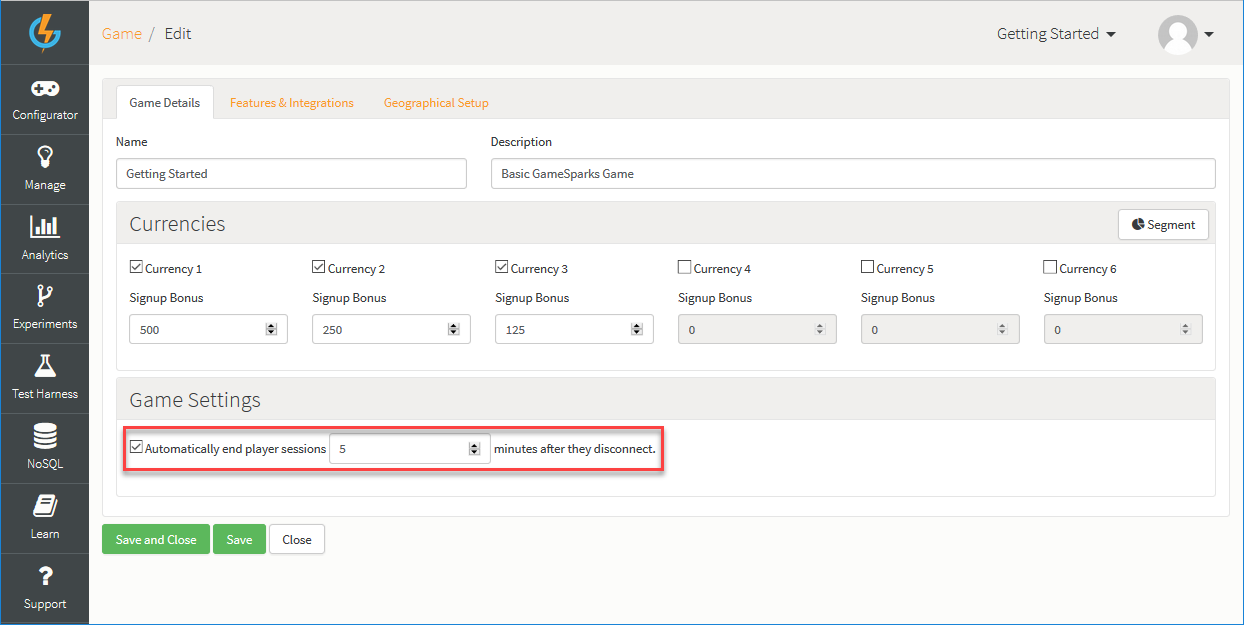
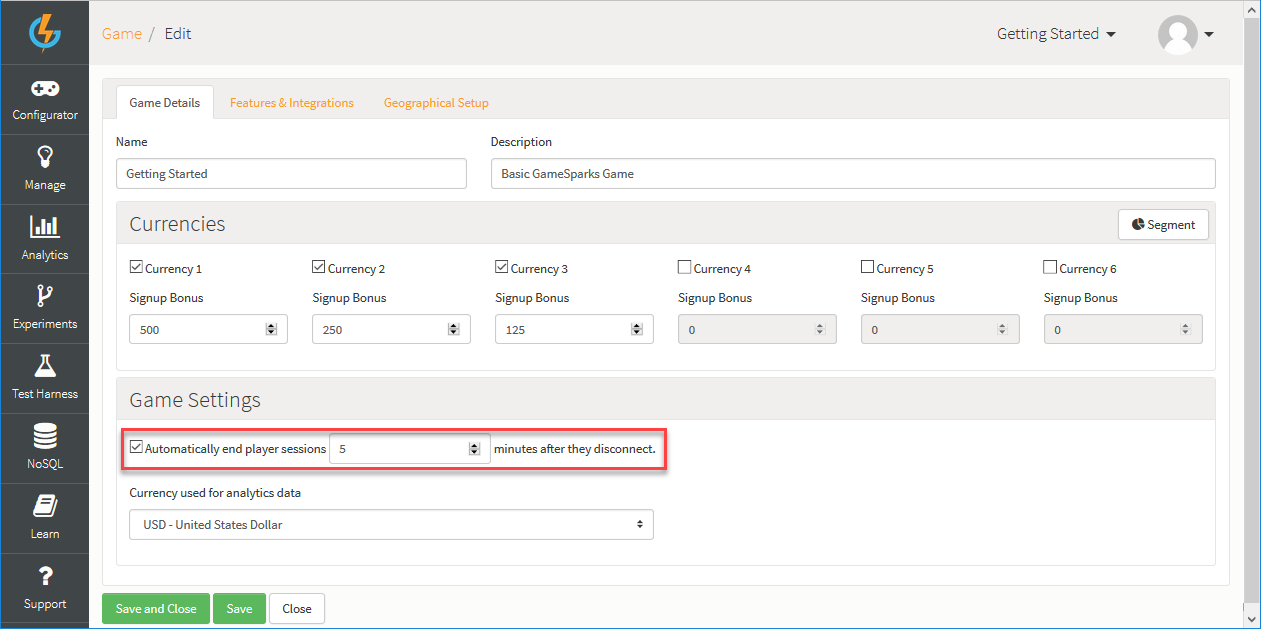
Sprint 72 updates

diff --git a/MARKDOWN/Documentation/Game Overview/README.md b/MARKDOWN/Documentation/Game Overview/README.md
@@ -107,7 +107,7 @@ To edit your game's details, click ![](img/GameOverview/19.png). The page adjust
   * *Name* \- The name of your game, used to identify the game in the portal if you have several games.
   * *Description* \- A description of the game.
   * *Currencies* \- Configure the [Currencies and Signup Bonuses](#Configuring Game Currencies) for your game.
-  * *Game Settings* \- Define your [Game Settings](#Defining Game Settings)
+  * *Game Settings* \- Set an [End Player Session Timeout](#Setting End Player Session Timeout) and define your game's [Base Reporting Currency](#Defining Base Reporting Currency)
 
 
 #### Configuring Game Currencies
@@ -122,7 +122,7 @@ Under *Currencies* you can configure:
 For more details, see [Segments](/Documentation/Configurator/Segments.md).
 
 
-#### Defining Game Settings
+#### Setting End Player Session Timeout
 
 Currently, player sessions are only timed if an [EndSessionRequest](/API Documentation/Request API/Analytics/EndSessionRequest.md) is sent when a player disconnects. If you don’t set things up so that an End Session Request is sent when a player disconnects, their session will not be properly timed. Therefore, your Analytics data will be skewed due to these unended sessions.
 
@@ -130,6 +130,15 @@ Under *Game Settings* you can select to automatically end a player session after
 * Select the *Automatically end player sessions* check box and enter the period in minutes that you want to elapse before this happens:
 
 ![](img/GameOverview/28.png)
+
+#### Defining Base Reporting Currency
+
+You can define a base reporting currency as a property of your game:
+* Any store purchases made by your players will be converted to this currency to be then used as analytics data.
+
+Under *Game Settings* use the *Currency used for analytics data* drop-down to select the base reporting currency you want to use for your game:
+
+![](img/GameOverview/29.png)
 
 ### Selecting Features and Integrations
 
